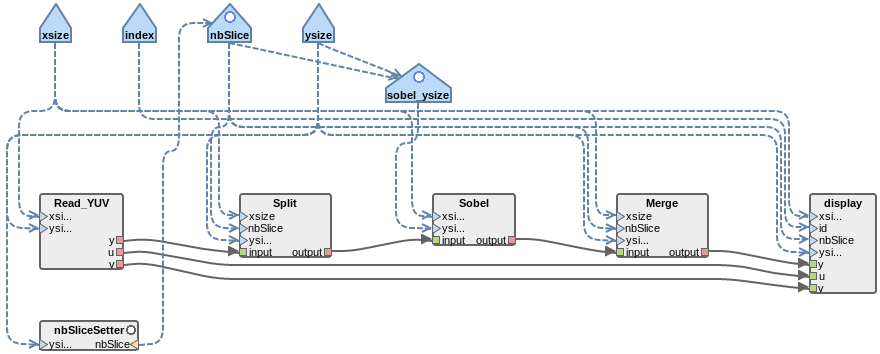
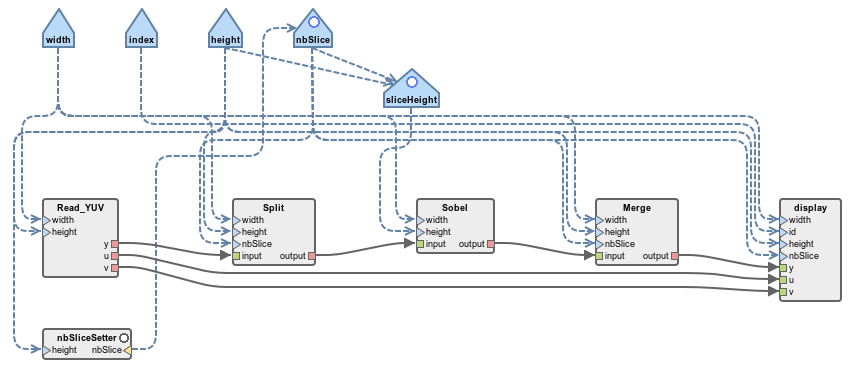
(Spider) Update tuto
- Include Claudio's comments
- Update to match current spider codegen within preesm

Changed region(s): [[0.0, 0.0, 1.0, 0.9944]]

diff --git a/_tutos/09-spider.md b/_tutos/09-spider.md
@@ -86,23 +86,8 @@ We need to modify the current Sobel algorithm to add a configuration actor and m
 
 It is important to note that the project resulting from this tutorial will no longer be compatible with the workflows used in tutorials 1 to 7. Hence, we strongly advise you to back up your current sobel project.
 
-Remove the following files from the "/Code/" directory:
 
-*   In "include/":
-    *   communication.h
-    *   dump.h
-    *   fifo.h
-    *   memory.h
-    *   x86.
-
-*   In "src/":
-    *   communication.c
-    *   dump.c
-    *   fifo.c
-    *   memory.c
-    *   main.c
-
-Empty the "/Code/generated/" directory and change the extension of every .c file in "/Code/src/" to .cpp.
+If "/Code/generated/" is not empty, delete its content. Also change the extension of every .c file in "/Code/src/" to .cpp.
 
 ### Update algorithm model
 
@@ -119,12 +104,13 @@ The next steps will add a configuration actor in our Sobel algorithm graph to ma
 4.  Right-click on the new actor and select "Add new configuration output port", name it "**nbSlice**".
 5.  Select "Dependency" in the left-hand palette of the graph editor, and connect the "nbSlice" configuration output port to the nbSlice parameter.
 6.  Using the procedure presented in previous tutorials, set "nbSliceSetter.h" as the refinement for the configuration actor.
+7.  The ```height``` parameter input of the configuration actor is used for initializing the value of ```nbSlice``` when the application starts.
 
 The resulting graph should look like this:
 
 ![](/assets/tutos/spider/top_display.png)
 
-The white dots that appear on the **nbSliceSetter** actor, and on the **nbSlice** and **height** parameters show that these graph elements constitute a reconfigurable part of the graph. It should be noted that a configuration actor changing the value of a parameter can not receive data tokens from another actor of its graph. As detailed in [\[1\]](#references), hierarchy levels must be used to allow a configuration actor to consume data tokens.
+The white dots that appear on the **nbSliceSetter** actor, and on the **nbSlice** and **sliceHeight** parameters show that these graph elements constitute a reconfigurable part of the graph. It should be noted that a configuration actor changing the value of a parameter can not receive data tokens from another actor of its graph. As detailed in [\[1\]](#references), hierarchy levels must be used to allow a configuration actor to consume data tokens.
 
 At this step, you must update the mapping constraints specified in the scenario to allow the execution of the newly created configuration actor on at least 1 core.
 
@@ -139,9 +125,10 @@ We now need to tell Preesm to use the Spider codegen instead of the C code gener
 3.  Add a "Task" bloc with:
     *   id : "Spider Codegen"
     *   plugin identifier : "org.ietr.preesm.pimm.algorithm.spider.codegen.SpiderCodegenTask"
-4.  Link them with two "Data transfer" connections:
+4.  Link them with three "Data transfer" connections:
     *   "scenario"
-    *   "PiMM".
+    *   "architecture"
+    *   "PiMM"
 
 ![](/assets/tutos/spider/spidercodegen-workflow.png)
 
@@ -156,7 +143,7 @@ Some actors like Read_YUV need to run an initialisation function in order to wor
 We need to change the CMake behavior to have it look for and link the Spider library.
 
 - (1) Copy "FindSpider.cmake" from the provided archive into "/Code/lib/cmake_modules/"
-- (2) Open "CMakeLists.txt" and insert the following text **AFTER** the pthread section:
+- (2) Open "/Code/CMakeLists.txt" and insert the following text **AFTER** the pthread section:
 
 ```cmake
 # *******************************************
@@ -195,10 +182,6 @@ endif()
 - (6) Add **${SPIDER_LIBRARY}** as an argument of **target\_link\_libraries()**.
 
 ### Set up Spider
-
-As Spider is a library, it needs to be initialised and called from the main function. For that purpose, we are providing a "main.cpp" file. Copy the "main.cpp" provided in the archive to "/Code/src/". It is currently needed to edit it manually, though it might be generated by the Spider codegen in the future. For now, you need to replace every occurence of ```<topgraph_name_in_preesm>``` by the name given to the top level graph in Preesm. In this example, the top level graph should be "top_display" (you need to match the upper case in one place).
-
-We saw earlier that the Spider codegen in Preesm is not able to handle initialisation/finalisation function (yet). You need to check concerned actors in the Preesm console and manually insert their initialisation/finalisation function in main.cpp (check commentary in the code to know where to insert them) and include their respective header files.
 
 When it's done, simply run the updated CMake script to set up the project and compile the program.
 
